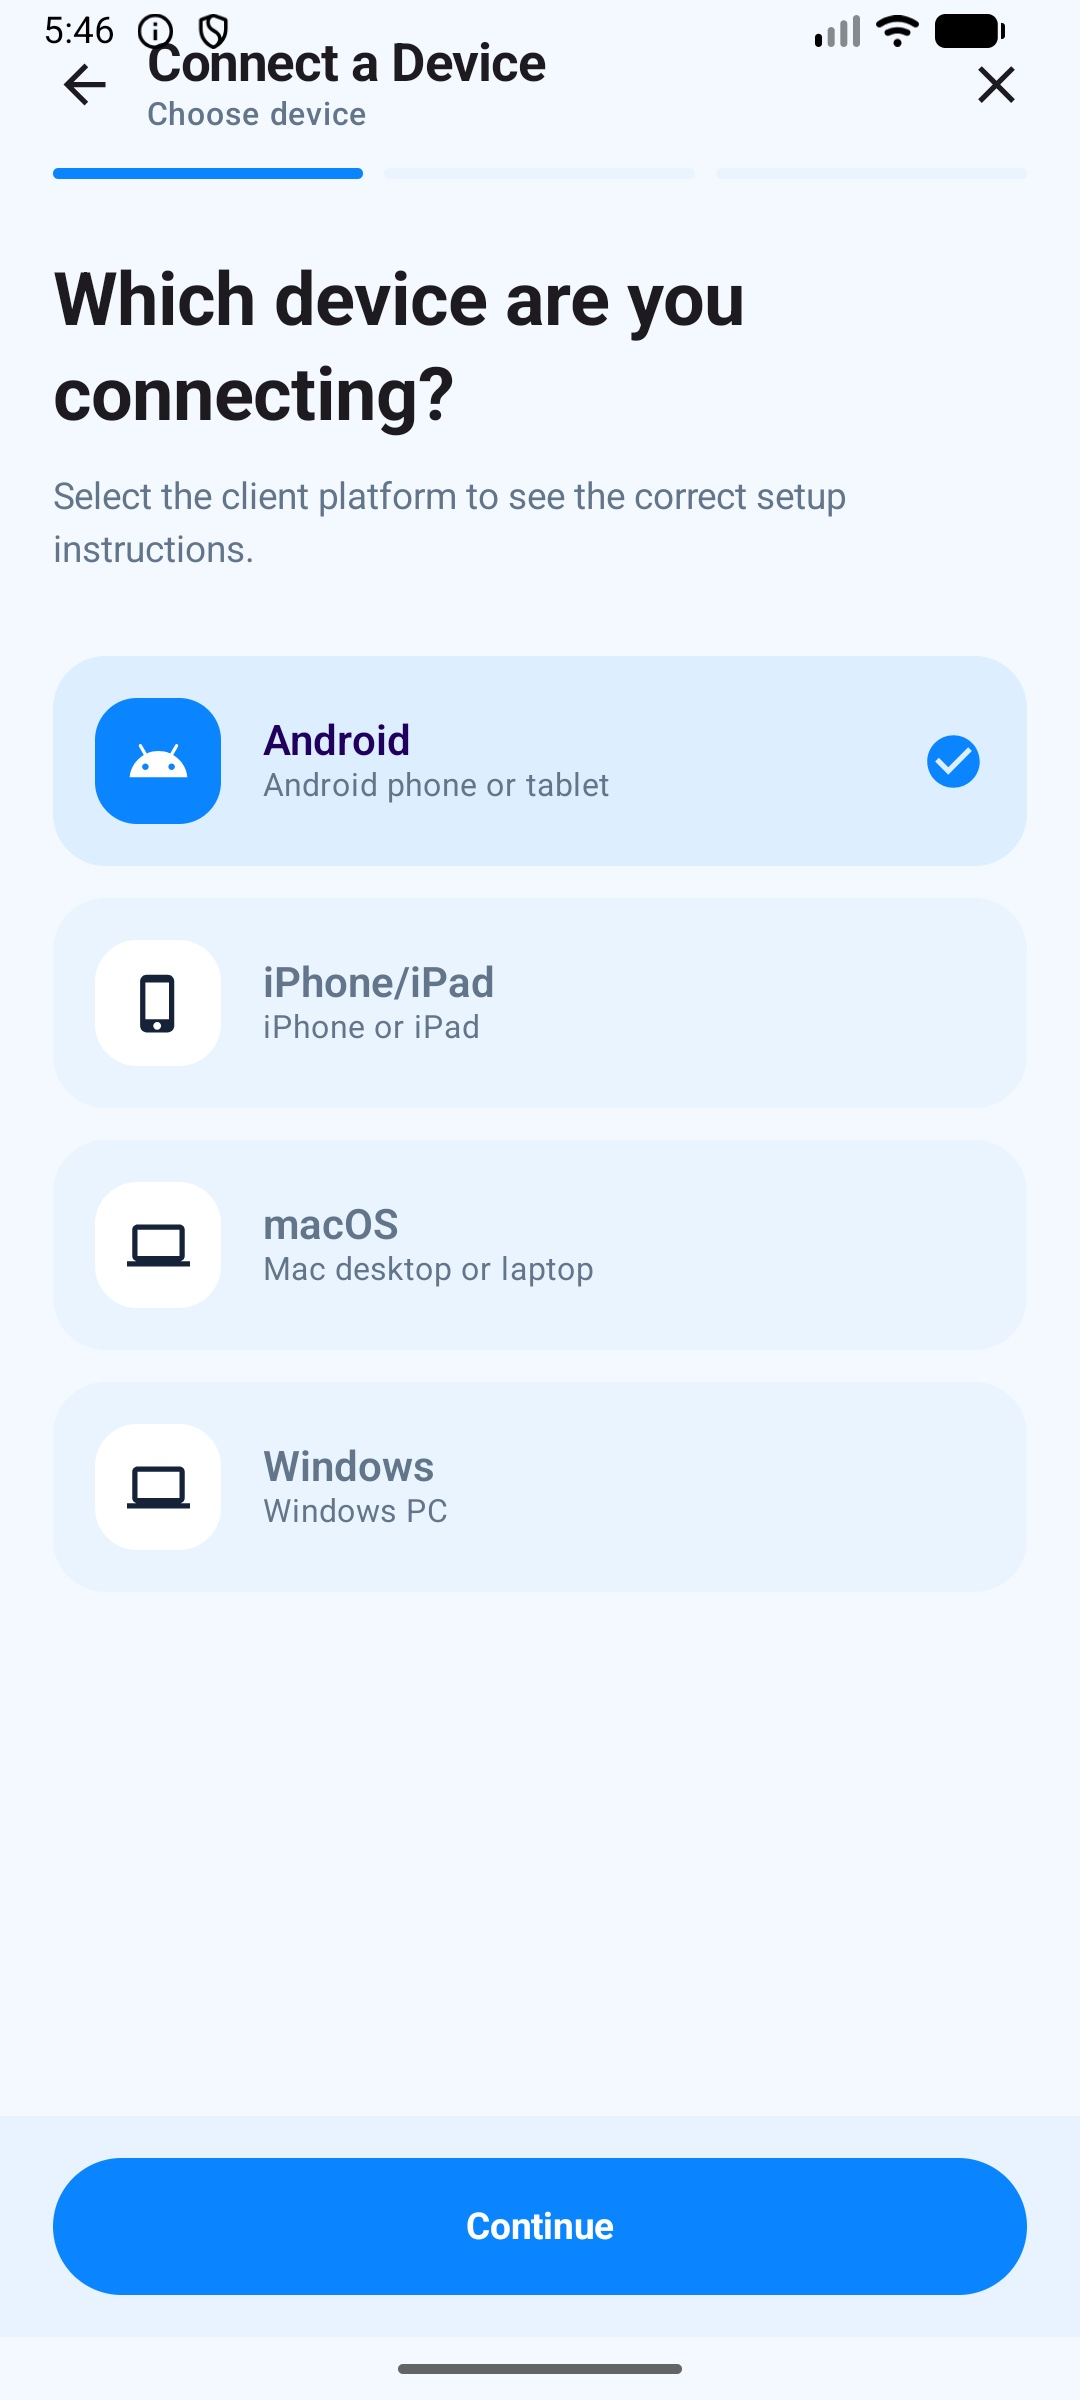
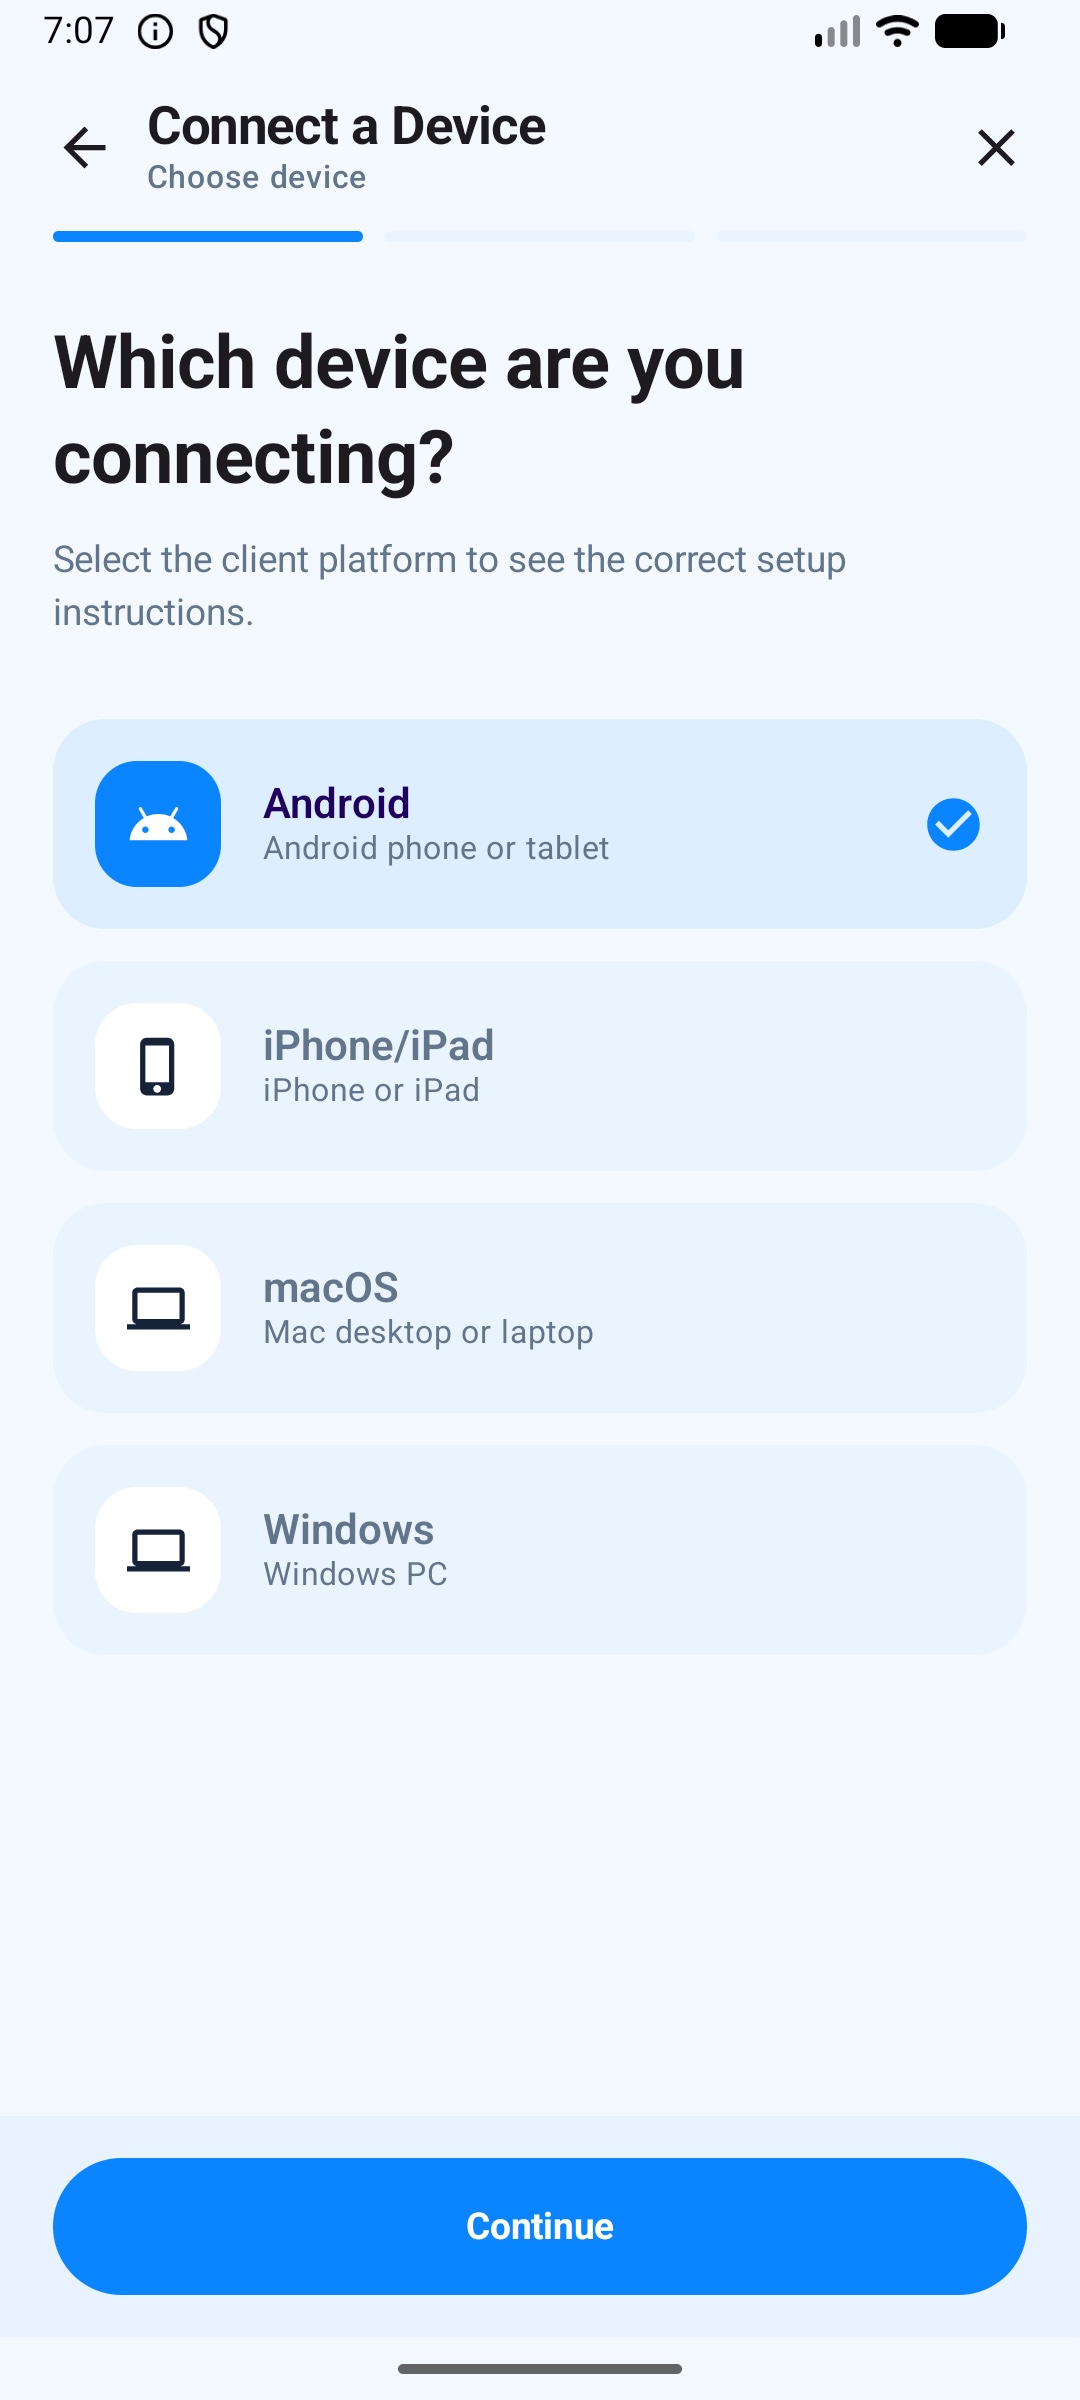
Fix Android landing screenshot framing

diff --git a/android/index.html b/android/index.html
@@ -106,17 +106,12 @@
     position:relative;z-index:2;width:292px;padding:9px;border-radius:46px;background:linear-gradient(145deg,#39485b,#070a10);
     box-shadow:0 36px 90px rgba(0,0,0,.42),inset 0 0 0 1px rgba(255,255,255,.16);
   }
-  .phone::before{
-    content:"";position:absolute;left:50%;top:17px;z-index:3;width:88px;height:22px;
-    transform:translateX(-50%);border-radius:18px;background:#080b10;
-  }
   .phone img{width:100%;height:auto;border-radius:36px}
   .phone-main{transform:rotate(1.4deg)}
   .phone-secondary{
     position:absolute;left:8px;bottom:42px;z-index:3;width:178px;padding:7px;border-radius:32px;
     transform:rotate(-7deg);box-shadow:0 25px 58px rgba(0,0,0,.45);
   }
-  .phone-secondary::before{top:13px;width:58px;height:16px}
   .phone-secondary img{border-radius:26px}
   .status-chip{
     position:absolute;right:-6px;bottom:104px;z-index:4;width:220px;padding:17px 18px;
@@ -230,10 +225,6 @@
   .screen-shot{
     position:relative;flex:none;width:min(266px,72%);padding:8px;border-radius:38px;
     overflow:hidden;background:#111722;box-shadow:0 24px 55px rgba(17,29,46,.22);
-  }
-  .screen-shot::after{
-    content:"";position:absolute;left:50%;top:15px;width:72px;height:20px;transform:translateX(-50%);
-    border-radius:14px;background:#0a0d12;
   }
   .screen-shot img{
     display:block;width:100%;height:auto;aspect-ratio:1080 / 2400;
